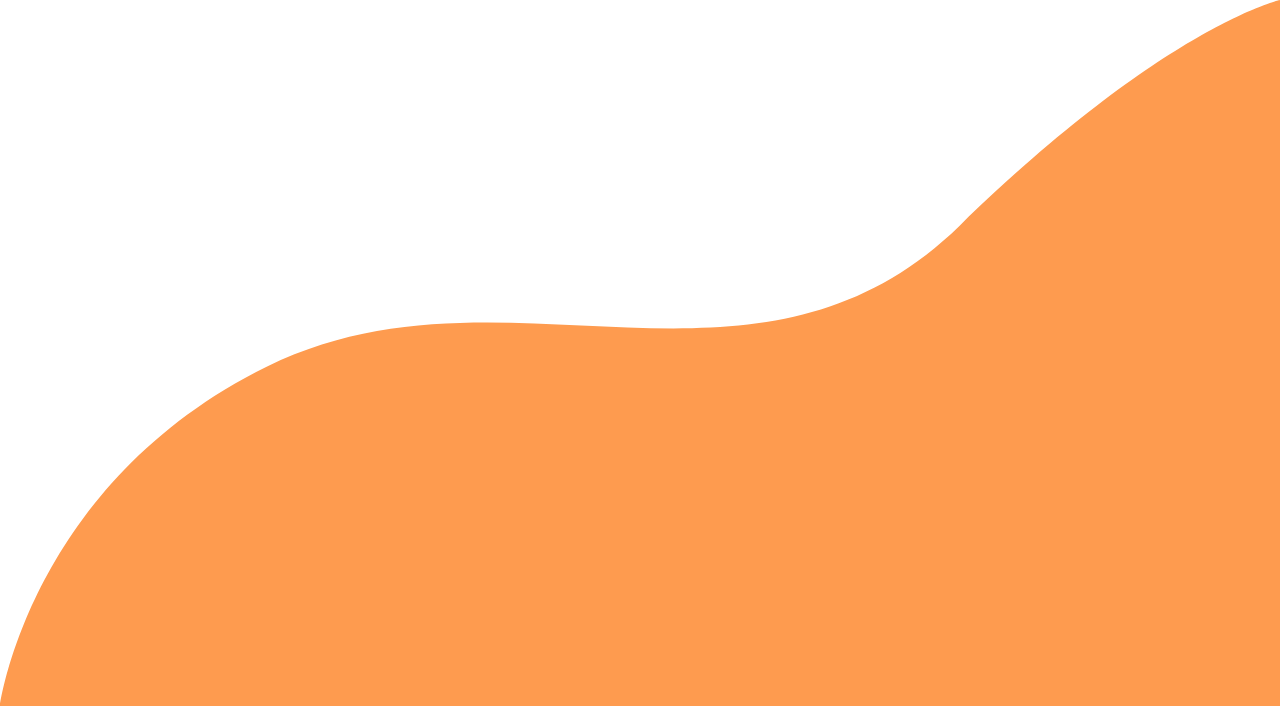
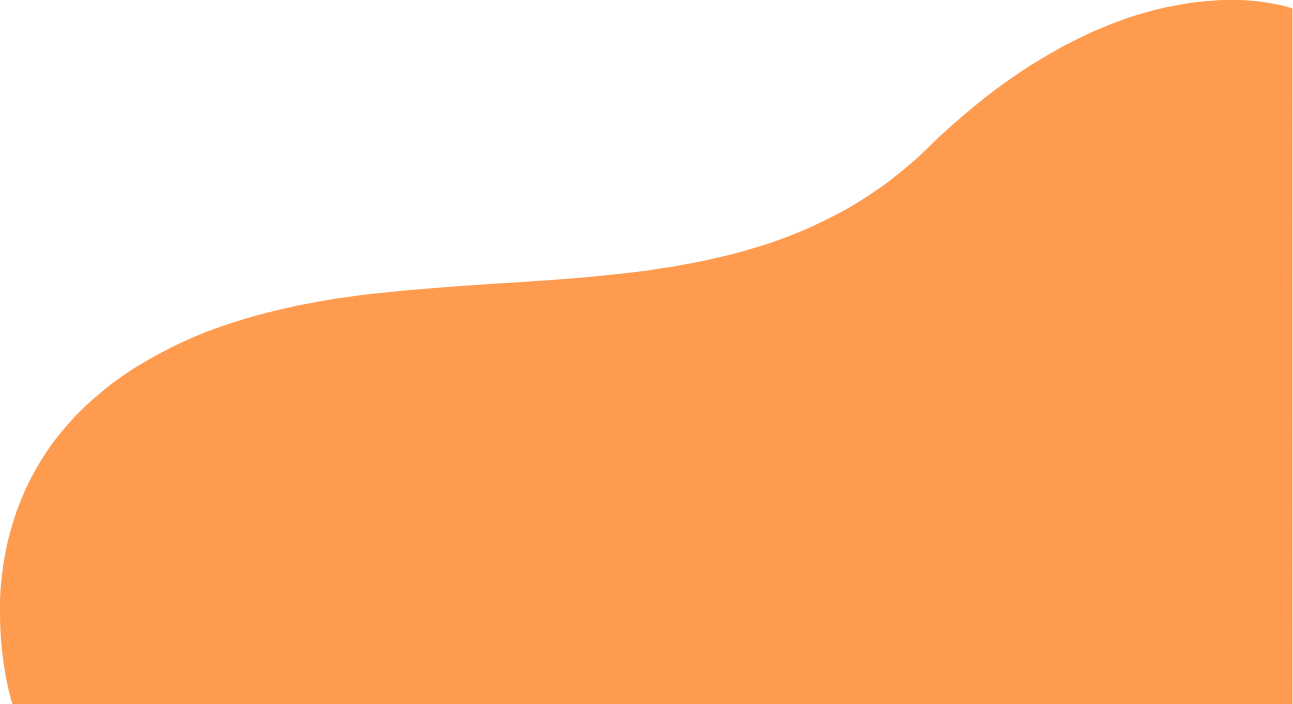
welcome page and half of quesitons done

Changed region(s): [[0.0, 0.0, 1.0, 0.9375], [0.0, 0.9688, 0.0312, 1.0]]

diff --git a/src/containers/Page.js b/src/containers/Page.js
@@ -3,7 +3,7 @@ import React, { Component } from 'react'
 import QuestionContainer from './QuestionContainer';
 import API from '../API';
 
-import background from '../images/background.png'
+import background from '../images/back-quesitons.png'
 
 
 
@@ -81,37 +81,43 @@ class Page extends Component {
 
         // console.log(language)
         return (
-            <div className="h-screen" style={{ backgroundImage:`url(${background})` }}>
-                
-                <div>
-                    <label>Select Category</label>
-                    <select
-                        name='category'
-                        onChange={this.filterCategory}
-                    >
-                        <option value='null' disabled selected>Category</option>
-                        <option value='cultural'>Cultural</option>
-                        <option value='trivia'>Trivia</option>
-                        <option value='coding'>Coding</option>
-                    </select>
+            <div className="h-screen flex" style={{ backgroundImage:`url(${background})` }}>
+                <div className="w-1/2 pt-20 pl-16">
+                    <img src='images/girl.png' className=""/>
+                    <div className="flex">
+                     <div className="pt-10 w-1/3">
+                        <select
+                            name='category'
+                            onChange={this.filterCategory}
+                            className="w-full h-10 bg-white border-solid border-2 border-gray-400 focus:outline-none focus:shadow-md"
+                        >
+                            <option value='null' disabled selected> Select Category</option>
+                            <option value='cultural'>Cultural</option>
+                            <option value='trivia'>Trivia</option>
+                            <option value='coding'>Coding</option>
+                        </select>
+                    </div>
+                    {isLanguageVisible && category !== 'cultural' ?                 
+                    <div className="pt-10 ml-10 w-1/3">
+                        <select
+                            name='language'
+                            onChange={this.filterCategory}
+                            className="w-full h-10 bg-white border-solid border-2 border-gray-400 focus:outline-none focus:shadow-md"
+                        >
+                            <option value='null' disabled selected>Select Language</option>
+                            <option value='javascript'>Java Script</option>
+                            <option value='ruby'>Ruby</option>
+                            <option value='react'>React</option>
+                        </select>
+                    </div> 
+                    :
+                    null
+                    }
                 </div>
-                {isLanguageVisible && category !== 'cultural' ?                 <div>
-                    <label>Select Language</label>
-                    <select
-                        name='language'
-                        onChange={this.filterCategory}
-                    >
-                        <option value='null' disabled selected>Language</option>
-                        <option value='javascript'>Java Script</option>
-                        <option value='ruby'>Ruby</option>
-                        <option value='react'>React</option>
-                    </select>
-                </div> 
-                :
-                null
-                }
-
+                 </div>
+                <div className="w-1/2 pt-12 pr-32 pb-24">
                 <QuestionContainer questions={filteredQuestions ? filteredQuestions : questions}/>
+                </div>
             </div>
         )
     }

diff --git a/src/containers/QuestionContainer.js b/src/containers/QuestionContainer.js
@@ -9,7 +9,7 @@ class QuestionContainer extends Component {
     }
     getQuestion = () => {
         if (this.state.question){
-            return <Question question={this.state.question.content} key={"question"} />
+            return <Question question={this.state.question.content} info={this.state.question.info} key={"question"} />
         }else {
             return <h1>Click to start</h1>
         }
@@ -37,15 +37,24 @@ class QuestionContainer extends Component {
     }
     
     render() {
-        console.log(this.props.questions)
+       
         return (
-            <div>
-                <h1>Question Container</h1>
-                {this.getQuestion()}
-                <button onClick={this.randomQuestion}>Click me</button>
-                <button onClick={this.showAnswer}>Show answer</button>
-               
-                {this.state.showAnswer && this.answer()}
+            <div className="w-full h-full">
+             
+                <div className="bg-white w-full h-40 rounded-lg shadow-md"> 
+                    {this.getQuestion()}
+                </div>
+                    <button 
+                        onClick={this.randomQuestion}
+                        className="mt-5 btn bg-white text-gray-600 font-sans py-2 px-16 rounded border border-b-4 border-gray-500 hover:border-t-2 hover:border-gray-600 hover:bg-gray-200"
+                    >Question</button>
+                    <button 
+                        onClick={this.showAnswer}
+                        className="mt-5 btn text-white font-sans py-2 px-12 ml-32 rounded  border border-gray-200 hoover:border-gray-400 hover:text-gray-200 hover:shadow"
+                    >Show answer</button>
+                <div className="h-10">
+                    {this.state.showAnswer && this.answer()}
+                </div>
             </div>
         )
     }

diff --git a/src/components/WelcomePage.js b/src/components/WelcomePage.js
@@ -1,11 +1,30 @@
 import React from 'react'
 import background from '../images/background.png'
+import { Link } from "react-router-dom"
 
 const WelcomePage = () => {
     return (
-        <div className="h-screen" style={{ backgroundImage:`url(${background})` }}>
-
-
+        <div className="h-screen grid grid-cols-2 grid-rows-2" style={{ backgroundImage:`url(${background})` }}>
+            <img src="images/welcome.png" className="max-w-xl row-span-3 pl-32 pt-5" alt="two people, one interviewing the other"></img>
+            {/*"max-w-full max-h-full sm:w-100 md:w-100 w-1/3   ml-20 mt-5}"*/}
+            <div className=" row-start-2 row-span-2 col-end-3 pl-24 pt-0">
+                <h1 className=" readyingH1 text-4xl text-white font-bold">READYING</h1>
+                <p className="text-white font-sans ">Where you can practice 
+                    interview questions
+                    <b>
+                        <div className="">
+                            in JavaScript, Ruby on Rails, React, about you<br />
+                            {/* in Ruby<br />
+                            about you */}
+                        </div>
+                    </b>
+                </p>
+                <Link to="/questions">
+                    <button className="mt-5 btn bg-white text-gray-600 font-sans py-2 px-16 rounded  border-b-4 border-gray-500 hover:border-t-2 hover:border-gray-600 hover:shadow">
+                        Start
+                    </button>
+                </Link>
+            </div>
         </div>
     )
 }

diff --git a/src/components/Question.js b/src/components/Question.js
@@ -2,10 +2,16 @@ import React from 'react'
 
 const Question = (props) => {
     const question = props.question ? props.question : "Loading..."
- 
+    const info = props.info ? props.info : "Loading..."
+
+    console.log(props)
     return (
-        <div>
-            <h1>{question}</h1>
+        <div className="w-full bg-white rounded-lg shadow-md p-8">
+            <h1 className="text-lg text-gray-800">{question}
+            </h1>
+            <p className="mt-5 text-md text-gray-700">{info}
+            It is a long established fact that a reader will be distracted by the readable content of a page when looking at its layout. The point of using Lorem Ipsum is that it has a more-or-less normal distribution of letters, as opposed to using 'Content here, content here', making it look like readable English. Many desktop publishing packages and web page editors now use Lorem Ipsum as their default model text, and a search for 'lorem ipsum' will uncover many web sites still in their infancy. Various versions have evolved over the years, sometimes by accident, sometimes on purpose (injected humour and the like).
+            </p>
         </div>
     )
 }

diff --git a/src/components/NavBar.js b/src/components/NavBar.js
@@ -3,7 +3,7 @@ import { Link } from "react-router-dom"
 
 const NavBar = () => {
     return (
-        <nav className="flex items-center p-4 shadow bg-white w-screen">
+        <nav className="flex items-center pt-2 pl-4 pr-4 pb-2 shadow bg-white w-screen">
             <Link to="/"><img src='images/logo.png' alt="logo" className="h-10"></img></Link>
             <div className="flex justify-end w-full">
             <Link to="/questions" className=" text-center text-gray-800 hover:text-orange-600 px-4 py-2 m-2">Questions</Link>

diff --git a/public/index.html b/public/index.html
@@ -5,6 +5,7 @@
     <meta name="viewport" content="width=device-width, initial-scale=1" />
     <meta name="theme-color" content="#000000" />
     <link rel="apple-touch-icon" href="%PUBLIC_URL%/logo192.png" />
+    <link href="https://fonts.googleapis.com/css2?family=Baloo+Paaji+2:wght@400;700;800&display=swap" rel="stylesheet">
     <!--
       manifest.json provides metadata used when your web app is installed on a
       user's mobile device or desktop. See https://developers.google.com/web/fundamentals/web-app-manifest/

diff --git a/src/assets/main.css b/src/assets/main.css
@@ -1,3 +1,5 @@
+/* For my custom style look for Renata on this file */
+
 /*! normalize.css v8.0.1 | MIT License | github.com/necolas/normalize.css */
 
 /* Document
@@ -52143,3 +52145,10 @@ video {
     transition-duration: 1000ms;
   }
 }
+
+
+/* Renata's custom styel */
+.readyingH1 {
+    font-family: 'Baloo Paaji 2', cursive;
+}
+

diff --git a/tailwind.js b/tailwind.js
@@ -240,6 +240,7 @@ module.exports = {
       ],
       serif: ['Georgia', 'Cambria', '"Times New Roman"', 'Times', 'serif'],
       mono: ['Menlo', 'Monaco', 'Consolas', '"Liberation Mono"', '"Courier New"', 'monospace'],
+   
     },
     fontSize: {
       xs: '0.75rem',

diff --git a/tailwind.config.js b/tailwind.config.js
@@ -1,5 +1,8 @@
 module.exports = {
   theme: {
+    font-family:{
+      readying: [ 'Baloo Paaji 2']
+    }
     extend: {},
   },
   variants: {},

diff --git a/src/assets/tailwind.css b/src/assets/tailwind.css
@@ -3,3 +3,5 @@
 @tailwind components;
 
 @tailwind utilities;
+
+@import "./customStyle.css";
